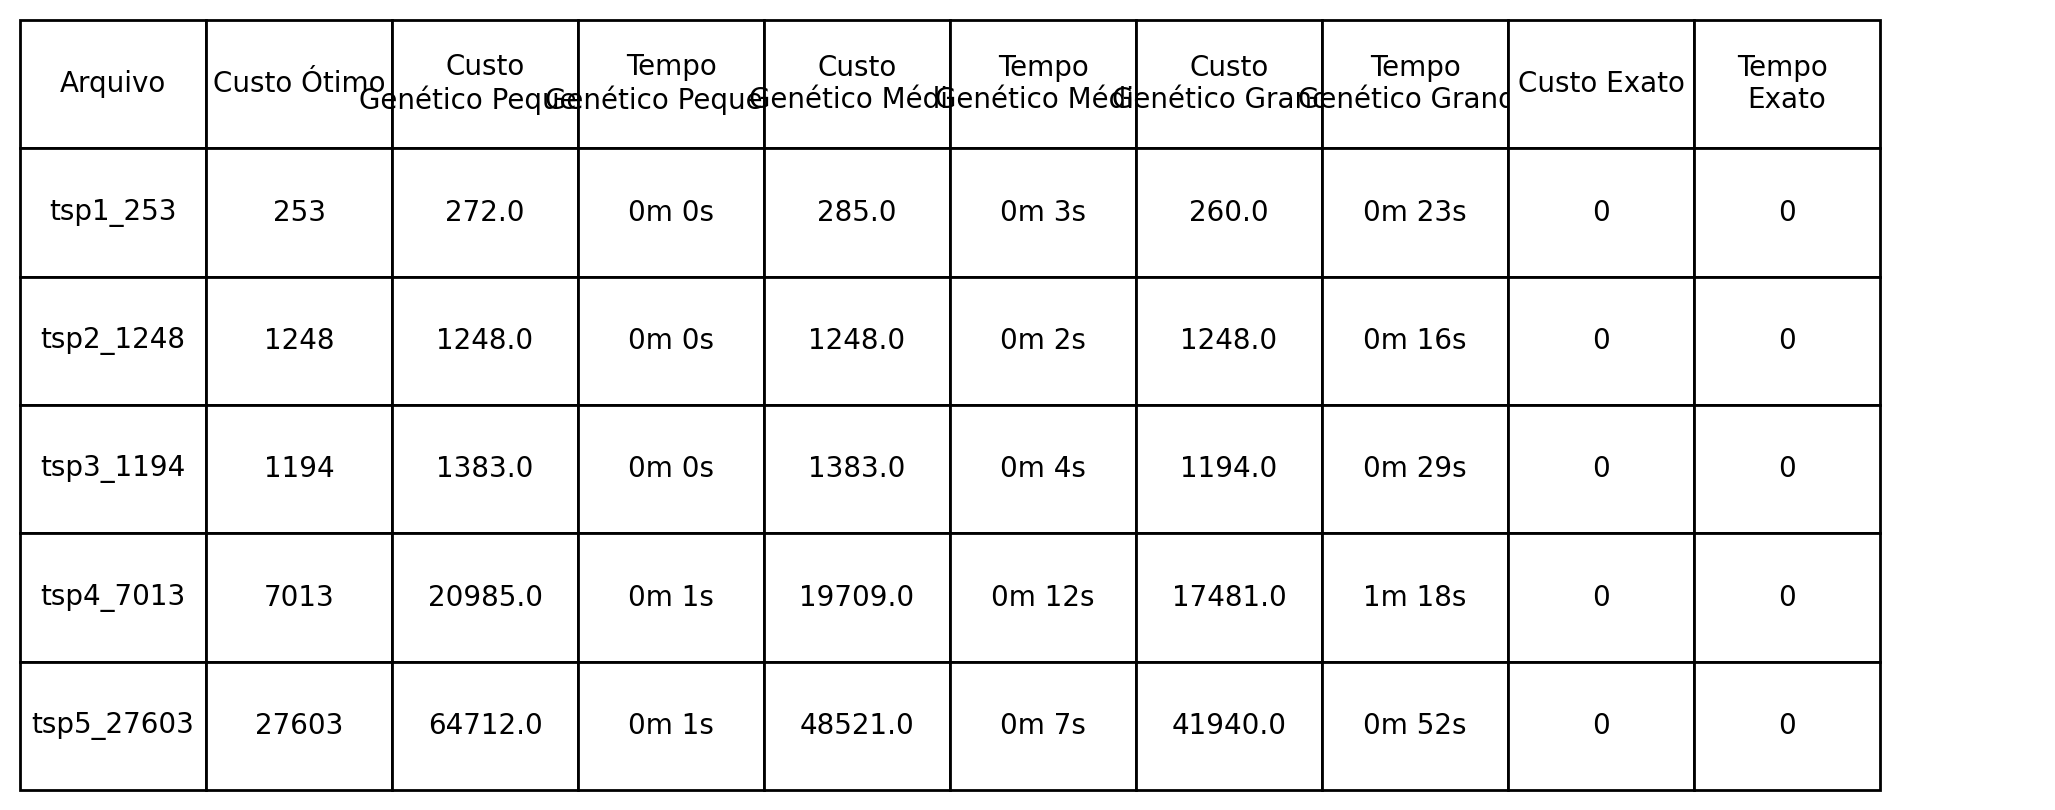
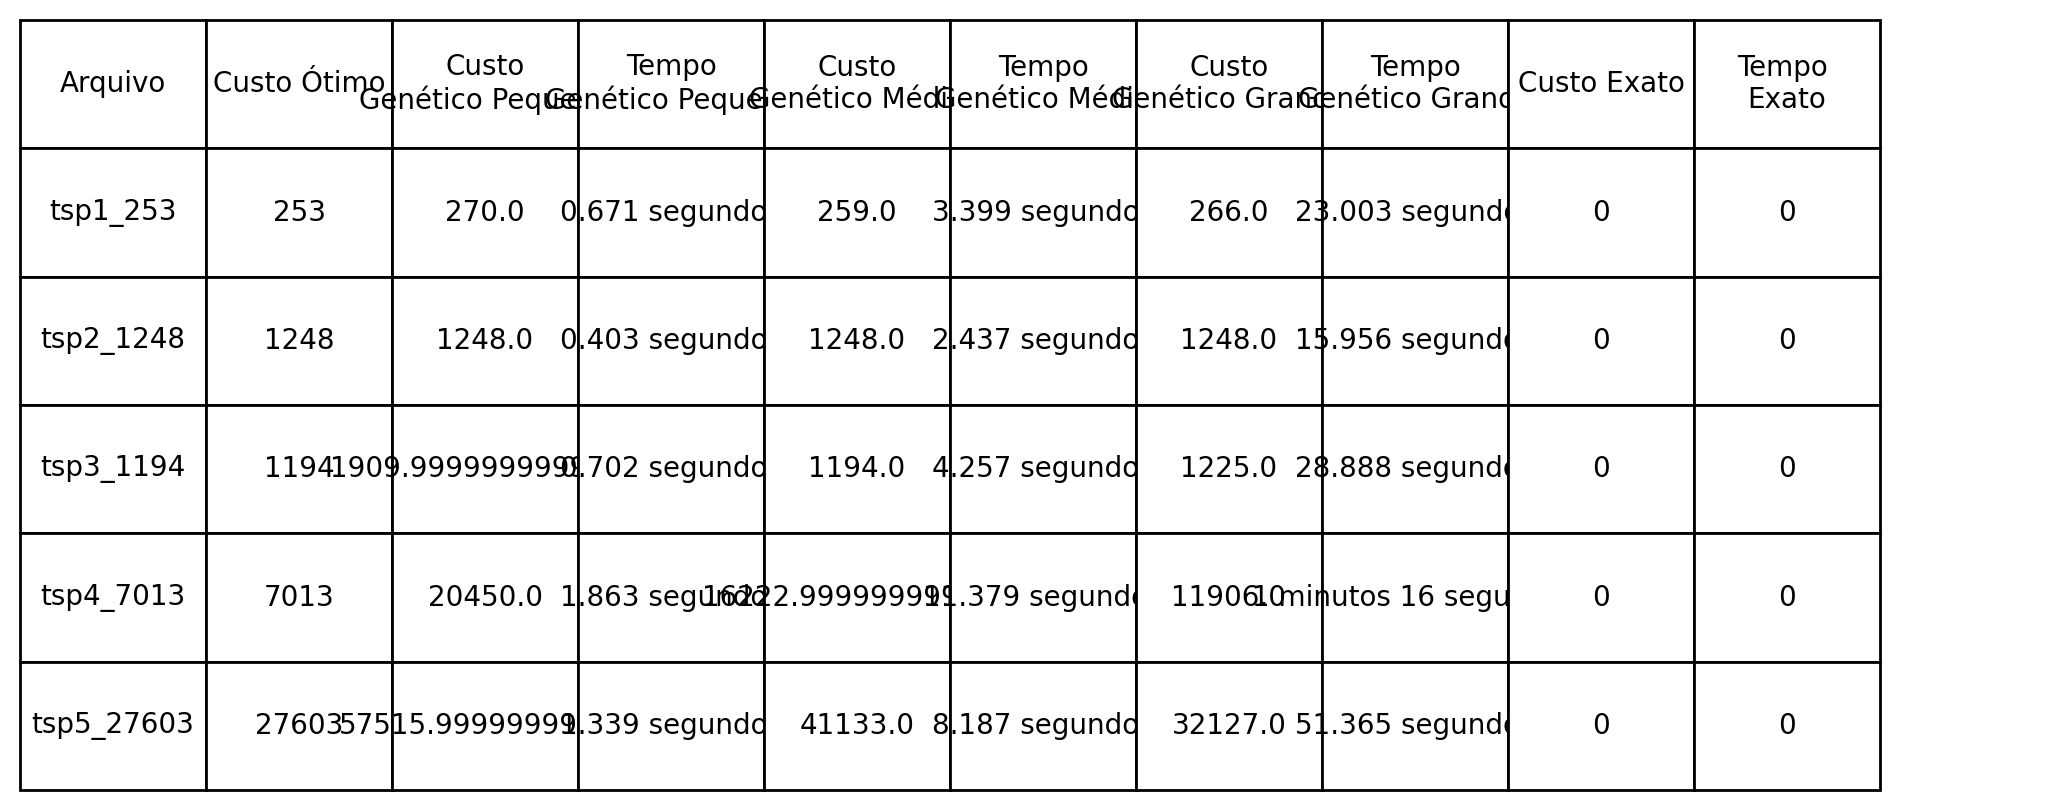
teste relatorio

diff --git a/Trabalho-1/app.py b/Trabalho-1/app.py
@@ -39,11 +39,12 @@ def compairAlgorithm(file, runExact):
     return fileName, target, totalCostAproximate[0][0], formatTime(totalCostAproximate[0][1]), totalCostAproximate[1][0], formatTime(totalCostAproximate[1][1]), totalCostAproximate[2][0], formatTime(totalCostAproximate[2][1]), totalCostExact, executeTimeExact
 
 def formatTime(time):
-    
-    mins = int(time // 60)
-    sec = int(time % 60)
-    
-    return f'{mins}m {sec}s'  
+    if (time // 60) < 1:
+        return f'{time:.3f} segundos'
+    else:
+        mins = int(time // 60)
+        sec = int(time % 60)
+        return f'{mins} minutos {sec} segundos'  
 
 matrixFiles = (('tsp_data/tsp1_253.txt', False),
                ('tsp_data/tsp2_1248.txt', False),
